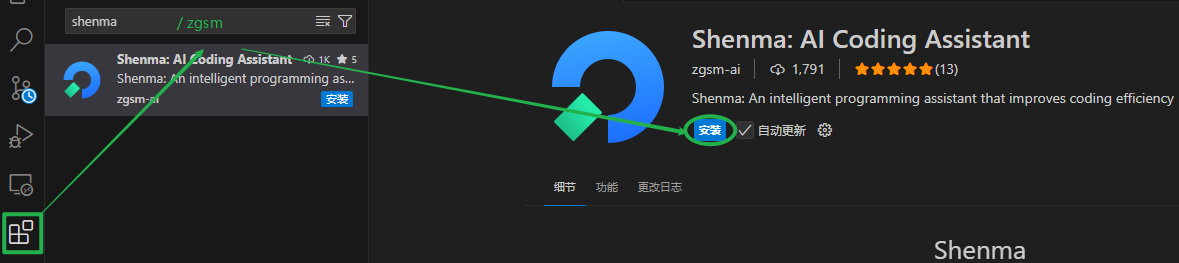
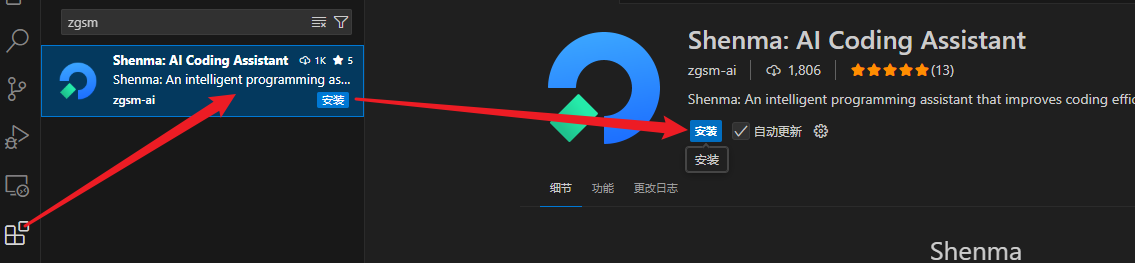
docs: update text and images

diff --git a/docs/guide/installation.md b/docs/guide/installation.md
@@ -2,29 +2,41 @@
 sidebar_position: 1
 ---
 
-# Installation
+# Installation Process
 
-:::tip
+:::tip[Requirements]
 
-The minimum supported version of VS Code for ZGSM is `1.86`. We recommend updating to the latest version of VS Code for the best experience.
+The minimum supported `vscode` version for Zhuge Shenma is `1.86`. It is recommended to upgrade to the latest `vscode` version for the best experience.
 
 <details>
-  <summary>Check your current version</summary>
+  <summary> You can check your current version by using the shortcut 'Ctrl + Shift + P' and typing 'about'. </summary>
 
-  ![img.png](img/version.png)
+![img.png](img/version.png)
 
 </details>
 
 :::
 
-### Extension Installation
+## Extension Installation
 
-- Search for `zgsm / shenma` in the VS Code Marketplace.
-- Click "Install".
+- In the `vscode` Extensions Marketplace, search for `zgsm`, `shenma`, or `costrict`.
+- Click 'Install'.
+- The costrict icon will appear in the Activity Bar on the left by default.
 
-<details>
-  <summary>Click the icon in the sidebar. The interface below will appear after a few seconds, confirming a successful installation.</summary>
+> Click the costrict icon in the Activity Bar. If the following interface appears after a few seconds, the installation is successful.
 
-  ![img.png](img/check.png)
+![img_2.png](img/check.png)
 
-</details>
+## Login
+
+> Click 'Login to costrict'.
+
+> A dialog will pop up on the first use. Click 'Open'. (If you click 'Configure Trusted Domains', you will be redirected to the browser directly).
+
+![img.png](img/confirm.png)
+
+> Choose any method to log in (logging in with `GitHub` is recommended).
+
+![img_1.png](img/login.png)
+
+> After you see the successful login page in your browser, return to VS Code. The login process will complete in a few seconds.

diff --git a/i18n/zh/docusaurus-plugin-content-docs/current/guide/installation.md b/i18n/zh/docusaurus-plugin-content-docs/current/guide/installation.md
@@ -6,12 +6,12 @@ sidebar_position: 1
 
 
 
-:::tip
+:::tip[安装要求]
 
 诸葛神码支持的 `vscode` 最低版本是 `1.86`，建议升级到最新的 `vscode` 版本以获得最佳的使用体验
 
 <details>
-  <summary> 检查当前版本 </summary>
+  <summary> 您可以通过快捷键 'Crtl + Shift + p', 输入 'about', 即可查看当前版本 </summary>
 
 ![img.png](img/version.png)
 
@@ -20,16 +20,28 @@ sidebar_position: 1
 :::
 
 
-### 插件安装
+## 插件安装
 
-- 在 `vscode` 插件商城中搜索 `zgsm / shenma / costrict` 
+- 在 `vscode` 插件商城中搜索 `zgsm` / `shenma` / `costrict` 
 - 点击安装
+- costrict图标默认会出现在左侧
+
+> 点击左侧的costrict图标, 等待几秒出现如下界面, 即安装成功
 
 
+![img_2.png](img/check.png)
 
-<details>
-  <summary> 点击右侧的图标, 等待几秒出现如下界面, 即视为安装成功 </summary>
 
-![img.png](img/check.png)
+## 登陆
 
-</details>
+> 点击 登陆costrict
+
+> 首次会弹出窗口, 点击打开 (如果点击`配置受信任的域`，后面会直接跳转到浏览器)
+
+![img.png](img/confirm.png)
+
+> 选择任意一种方式登陆 (推荐使用 `github` 登陆)
+
+
+![img_1.png](img/login.png)
+> 看到登陆成功页面后，回到vscode，等待几秒即可完成登陆
